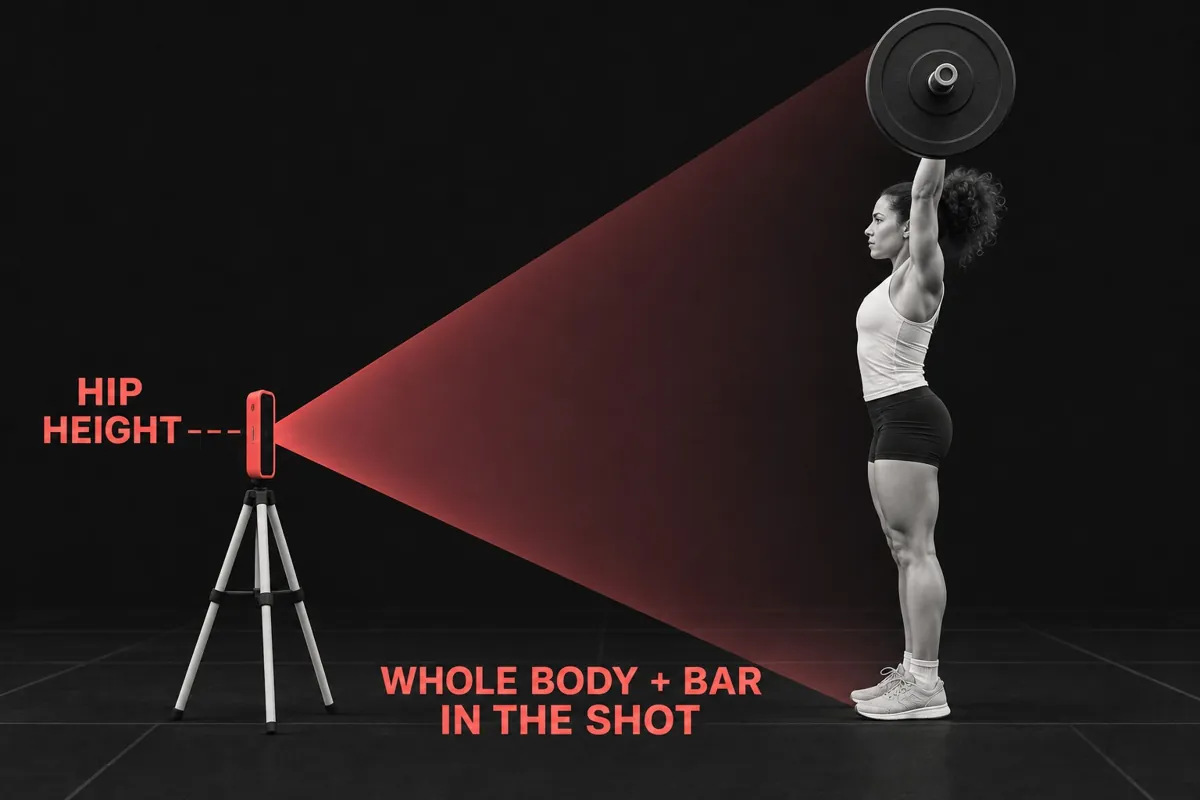
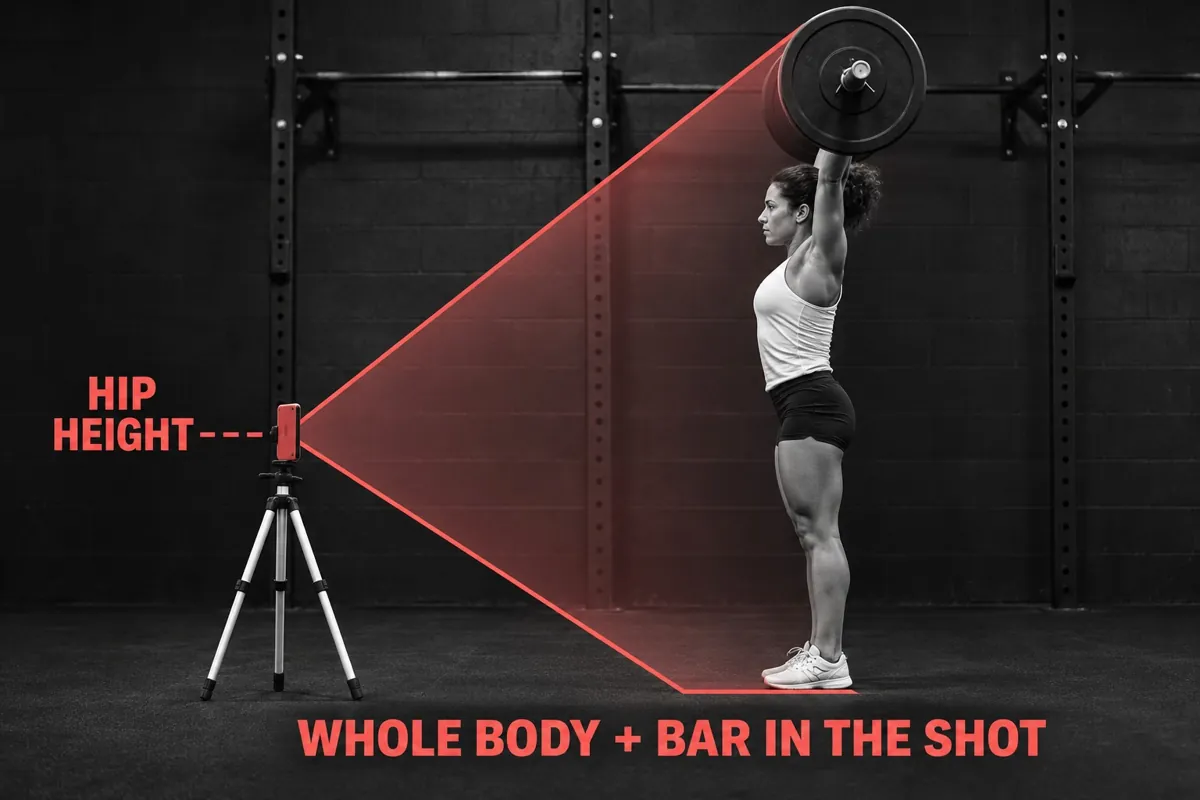
Camera images v2: realistic top view, pull-up rig behind side view, clock moved
Claude-Session: https://claude.ai/code/session_017vtccbFEVB3hDaqVSYQ9np

diff --git a/app2/index.html b/app2/index.html
@@ -925,7 +925,7 @@ Rest 2:00"></textarea></label>
     <label class="btn">Add the clock to a video I already have<input id="vcLib" type="file" accept="video/*" hidden=""></label>
     <input id="vcCam" type="file" accept="video/*" capture="environment" hidden="">
    </div>
-   <details class="camplan" id="vcPlan"><summary>Where to put the camera</summary><div class="cp-tabs" role="tablist"><button type="button" class="on" data-cp="lift" role="tab" aria-selected="true">Lift</button><button type="button" data-cp="wod" role="tab" aria-selected="false">Workout</button></div><div class="cp-pane" data-cpp="lift"><img src="img/cam1.webp" width="1200" height="800" alt="Top view: phone on a tripod straight out to the lifter's side, in line with the bar, 8-10 feet away, at 90 degrees" loading="lazy"><img src="img/cam2.webp" width="1200" height="800" alt="Side view: phone on a tripod at hip height, whole body and the bar overhead in the shot" loading="lazy"><p>Phone straight out to your side, level with the bar, about 8-10 feet away. <b>Prop the phone up. Don't hold it.</b></p></div><div class="cp-pane" data-cpp="wod" hidden><img src="img/cam3.webp" width="1200" height="800" alt="Top view of a workout: phone on a tripod in a corner, every station and the clock in the shot" loading="lazy"><p>Back far enough that every station and the clock stay in the shot the whole time. <b>Prop the phone up. Don't hold it.</b></p></div></details>
+   <details class="camplan" id="vcPlan"><summary>Where to put the camera</summary><div class="cp-tabs" role="tablist"><button type="button" class="on" data-cp="lift" role="tab" aria-selected="true">Lift</button><button type="button" data-cp="wod" role="tab" aria-selected="false">Workout</button></div><div class="cp-pane" data-cpp="lift"><img src="img/cam1.webp?v=2" width="1200" height="800" alt="Top view: phone on a tripod straight out to the lifter's side, in line with the bar, 8-10 feet away, at 90 degrees" loading="lazy"><img src="img/cam2.webp?v=2" width="1200" height="800" alt="Side view: phone on a tripod at hip height, whole body and the bar overhead in the shot" loading="lazy"><p>Phone straight out to your side, level with the bar, about 8-10 feet away. <b>Prop the phone up. Don't hold it.</b></p></div><div class="cp-pane" data-cpp="wod" hidden><img src="img/cam3.webp?v=2" width="1200" height="800" alt="Top view of a workout: phone on a tripod in a corner, every station and the clock in the shot" loading="lazy"><p>Back far enough that every station and the clock stay in the shot the whole time. <b>Prop the phone up. Don't hold it.</b></p></div></details>
    <ol class="vc-steps">
     <li>Prop your phone so your whole body and the equipment stay in frame.</li>
     <li>Pick your clock, tap Record, and use the 10 seconds to get set. You'll hear 3, 2, 1, GO.</li>
